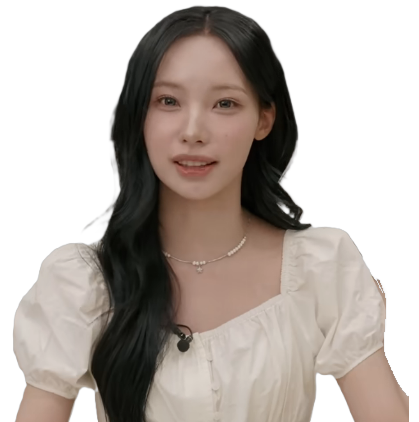
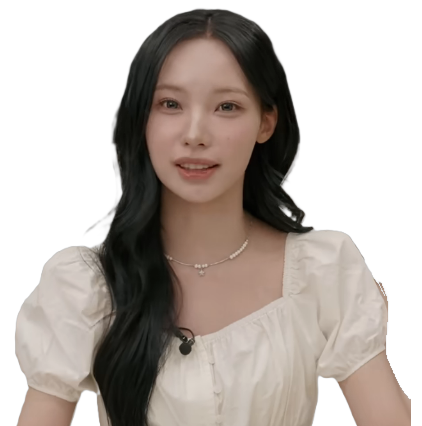
Add 선배 sprites, re-align sprites by body, add talking head motion
- New 선배 normal expression with two talk frames
- All sprites re-aligned from the original uploads: scale from face size,
  position anchored on the torso so the body stays put while the head
  keeps its natural movement (talk frames capped at 6px to avoid jitter,
  blink frames locked to the face)
- While talking the character occasionally nods/tilts slightly
  (TALK_BOB_PX, TALK_TILT_DEG) and settles back during pauses

Claude-Session: https://claude.ai/code/session_01F3owAytKexHC1amaQEKqn4

diff --git a/js/engine.js b/js/engine.js
@@ -15,6 +15,8 @@ const CONFIG = {
     ',': 120, '~': 120, '.': 260, '!': 260, '?': 260, '…': 320,
   },
   MOUTH_MS: 100,                 // 입 모양을 바꾸는 간격(ms)
+  TALK_BOB_PX: 3,               // 말할 때 고개가 위아래로 움직이는 최대 폭(px)
+  TALK_TILT_DEG: 0.8,           // 말할 때 고개가 기울어지는 최대 각도(도)
   MAX_TALK_FRAMES: 3,           // _talk1 ~ _talk3 까지 찾음
   BLINK_MIN_MS: 2200,           // 눈 깜빡임 간격(ms, 이 사이에서 무작위)
   BLINK_MAX_MS: 5500,
@@ -371,8 +373,23 @@ setInterval(() => {
     do { m = 1 + Math.floor(Math.random() * frames); } while (frames > 1 && m === anim.mouth);
     anim.mouth = m;
   }
+  // 말하는 동안 가끔 고개를 살짝 끄덕이고 기울임. 쉬는 동안엔 제자리로
+  if (talking && Math.random() < 0.35) {
+    setBob(-Math.random() * CONFIG.TALK_BOB_PX, (Math.random() * 2 - 1) * CONFIG.TALK_TILT_DEG);
+  } else if (!talking && bobActive) {
+    setBob(0, 0);
+  }
   renderChar();
 }, CONFIG.MOUTH_MS);
+
+let bobActive = false;
+function setBob(y, deg) {
+  bobActive = y !== 0 || deg !== 0;
+  for (const el of [$('char-img'), $('char-ph')]) {
+    el.style.translate = `0 ${y.toFixed(1)}px`;
+    el.style.rotate = `${deg.toFixed(2)}deg`;
+  }
+}
 
 // 눈 깜빡임: 무작위 간격, 가끔 두 번 연속
 const wait = ms => new Promise(r => setTimeout(r, ms));

diff --git a/css/style.css b/css/style.css
@@ -31,7 +31,10 @@ button:disabled { opacity: .4; cursor: default; }
 #char.enter { animation: char-in .2s ease-out; }
 @keyframes char-in { from { opacity: 0; transform: translate(-50%, 10px); } }
 /* 가만히 있을 때 미세한 숨쉬기 */
-#char-img, #char-ph { transform-origin: 50% 100%; animation: breathe 4s ease-in-out infinite; }
+#char-img, #char-ph {
+  transform-origin: 50% 100%; animation: breathe 4s ease-in-out infinite;
+  transition: translate .18s ease-out, rotate .18s ease-out;   /* 말할 때 고개 움직임 */
+}
 @keyframes breathe { 50% { transform: scaleY(1.008); } }
 #char-img { display: block; max-height: 62vh; max-width: 90vw; }
 #char-ph {

diff --git a/README.md b/README.md
@@ -152,7 +152,9 @@ python -m http.server 8000
 - 입은 글자가 나올 때만 움직이고, 띄어쓰기·문장부호(`, . ! ? …`)에서 쉬는 동안엔 닫힙니다.
   입 모양은 매번 무작위로 골라서 기계적인 반복처럼 보이지 않게 합니다.
 - 눈은 2~5.5초마다 무작위로 깜빡이고, 가끔 두 번 연속 깜빡입니다.
-- 속도와 간격은 `js/engine.js` 의 `CONFIG` (`TYPE_SPEED`, `PUNCT_PAUSE`, `MOUTH_MS`, `BLINK_MIN_MS`, `BLINK_MAX_MS`)에서 조절합니다.
+- 말하는 동안 고개가 살짝 끄덕이고 기울어지며, 문장부호에서 쉴 때 제자리로 돌아옵니다.
+- 속도와 간격은 `js/engine.js` 의 `CONFIG` (`TYPE_SPEED`, `PUNCT_PAUSE`, `MOUTH_MS`, `BLINK_MIN_MS`, `BLINK_MAX_MS`)에서,
+  고개 움직임 크기는 `TALK_BOB_PX`(위아래 px), `TALK_TILT_DEG`(기울기 각도)에서 조절합니다. 0으로 하면 꺼집니다.
 
 ## 현재 필요한 이미지 목록
 
